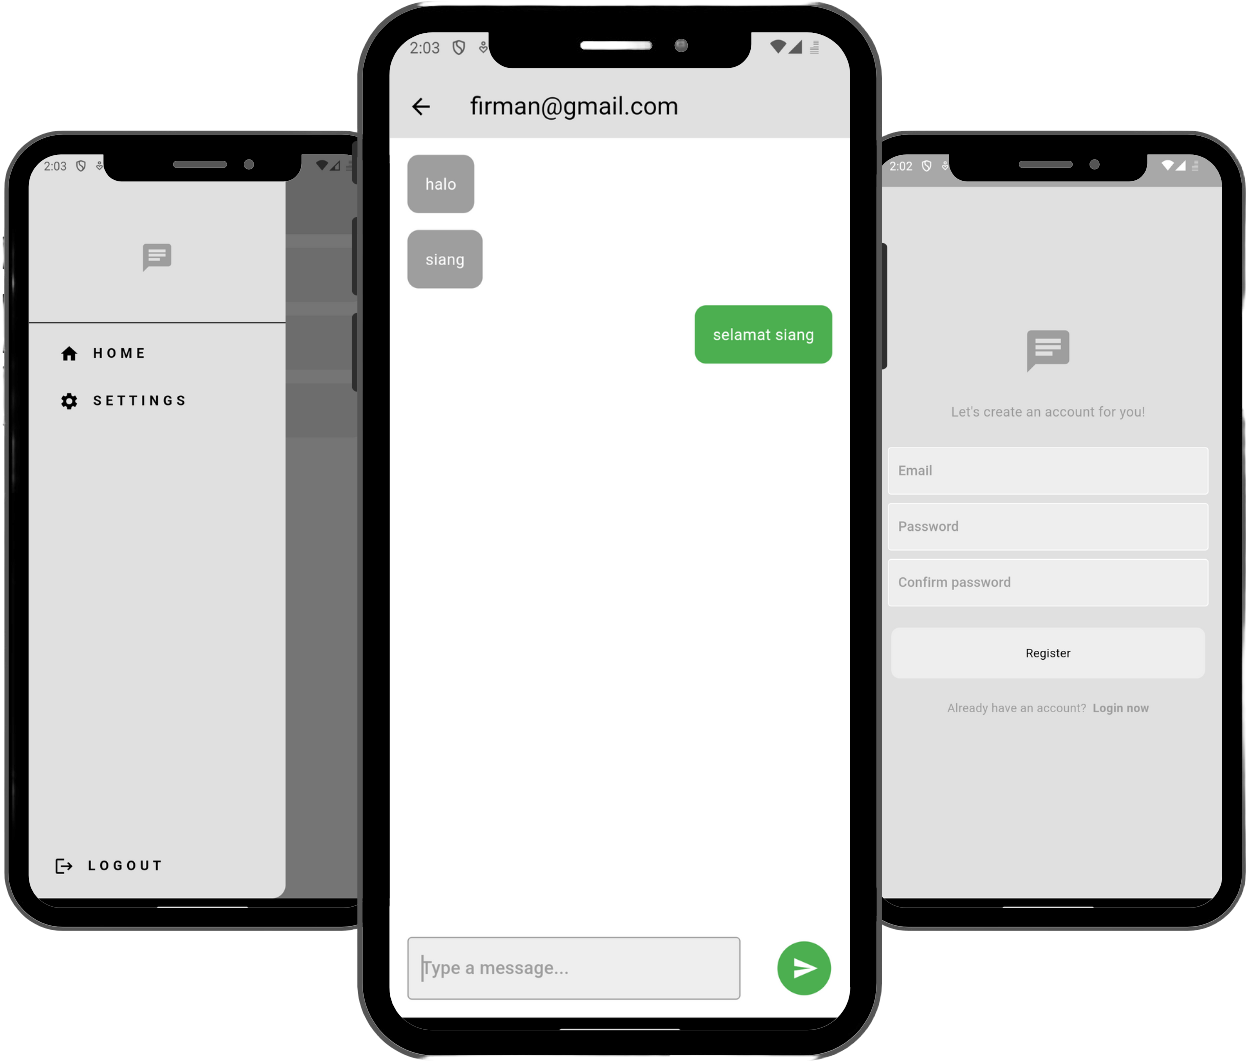
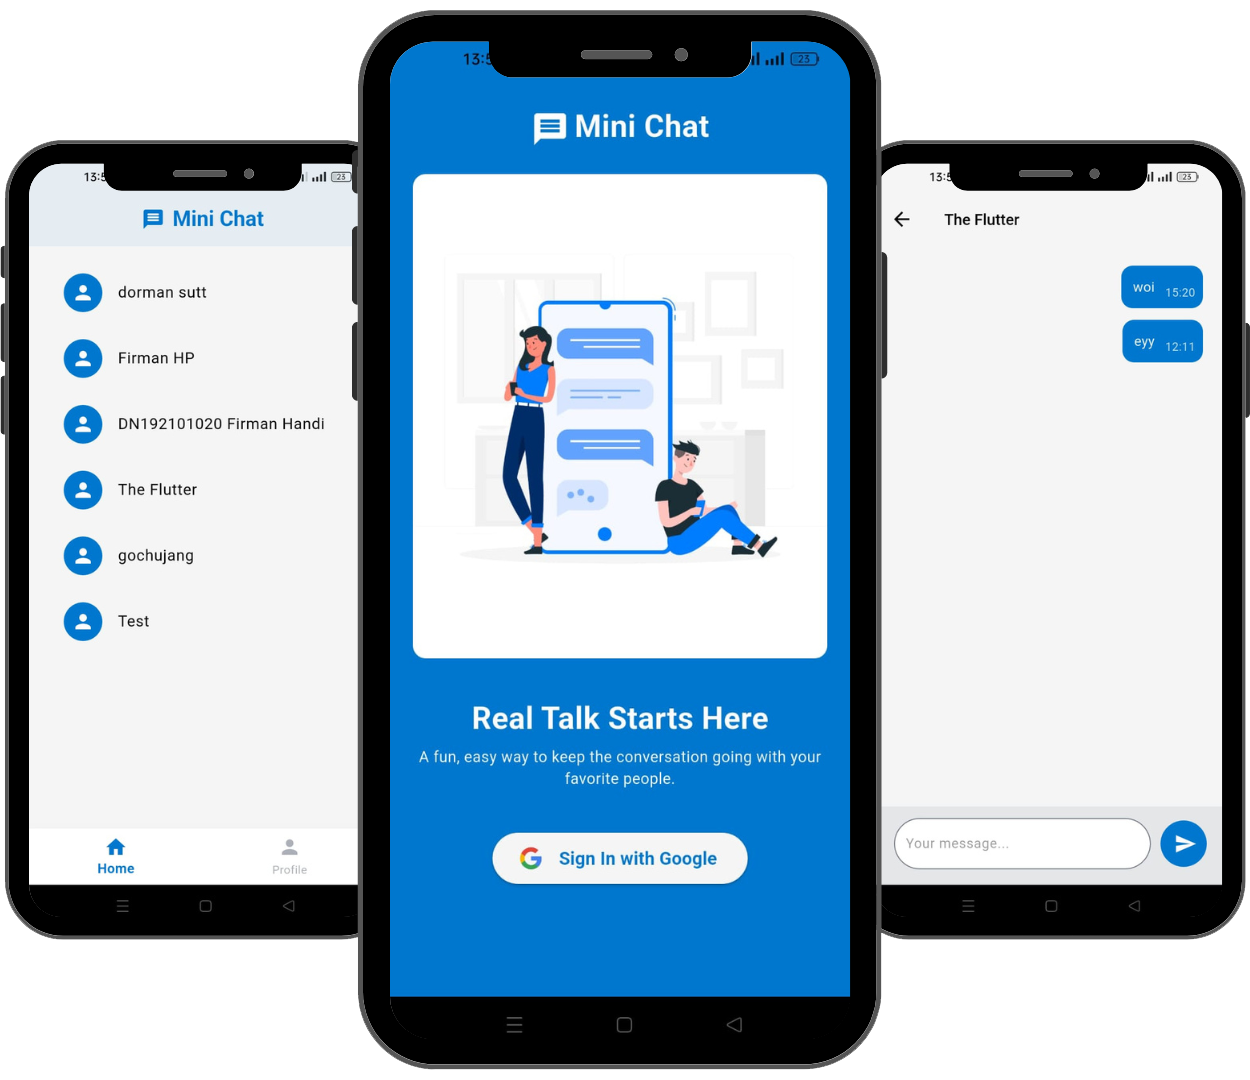
images for chat app updated

diff --git a/src/components/portfolioDetail.jsx b/src/components/portfolioDetail.jsx
@@ -2,6 +2,7 @@
 
 import React from 'react'
 import { motion } from 'framer-motion'
+import Image from 'next/image'
 
 const PortofolioDetail = ({ imgUrl, title, descripton, repoUrl }) => {
 
@@ -13,15 +14,15 @@ const PortofolioDetail = ({ imgUrl, title, descripton, repoUrl }) => {
             className='w-full h-full px-4 sm:px-8 md:px-12 lg:px-20 xl:px-48 flex flex-col md:flex-row overflow-y-scroll'>
             {/* IMAGE */}
             <div className='w-full md:w-1/2 h-full'>
-                <img src={`../${imgUrl}/main_image.png`} alt="" className='w-full h-full object-contain' />
+                <Image src={`../${imgUrl}/main_image.png`} alt="" className='w-full h-full object-contain' />
             </div>
             {/* TEXT CONTAINER */}
             <div className='w-full md:w-1/2 h-full flex flex-col justify-center gap-5 mt-10 md:mt-0 md:pl-10 lg:pl-12 xl:pl-14'>
                 <h1 className='text-3xl md:text-4xl lg:text-6xl font-bold'>{title}</h1>
                 <p className='text-justify text-sm md:text-base'>{descripton}</p>
-                <button 
-                onClick={()=> window.open(repoUrl)}
-                className='w-full px-4 py-3 border-[1px] border-black md:w-fit rounded-full hover:bg-black hover:text-white'>See Github Repository</button>
+                <button
+                    onClick={() => window.open(repoUrl)}
+                    className='w-full px-4 py-3 border-[1px] border-black md:w-fit rounded-full hover:bg-black hover:text-white'>See Github Repository</button>
                 <div className='mt-3'></div>
             </div>
         </motion.div>
